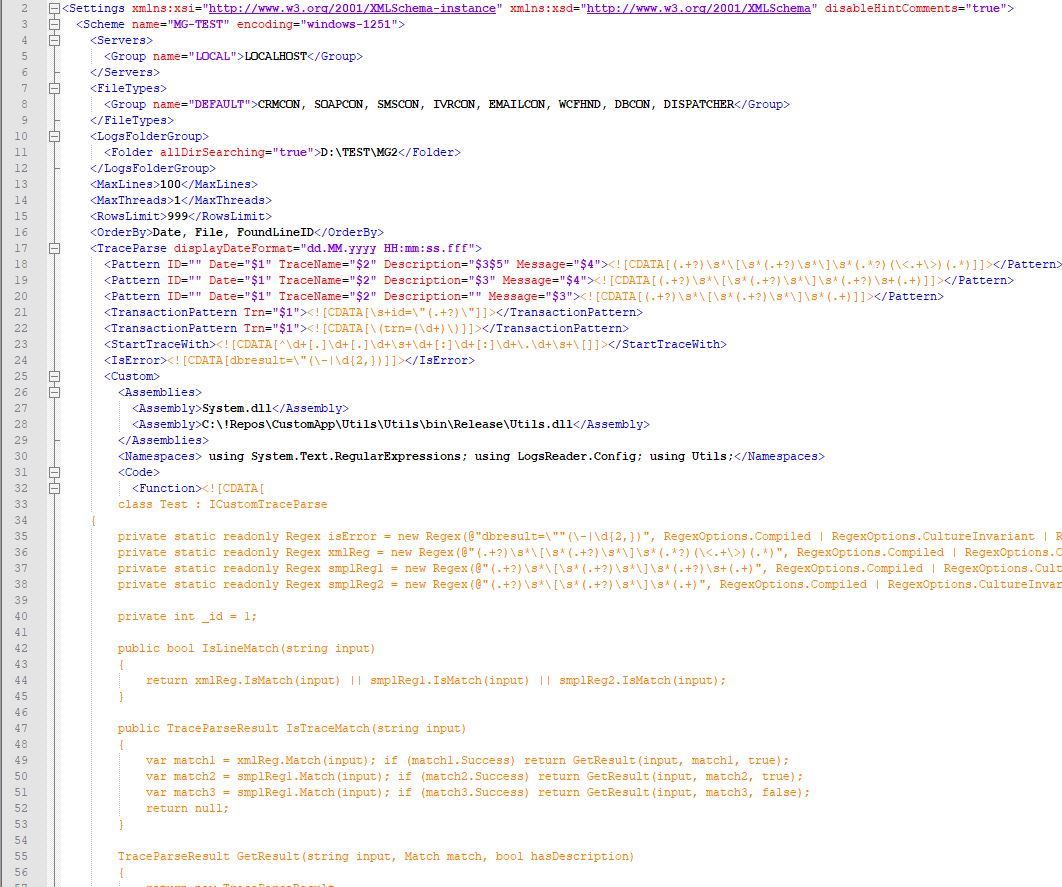
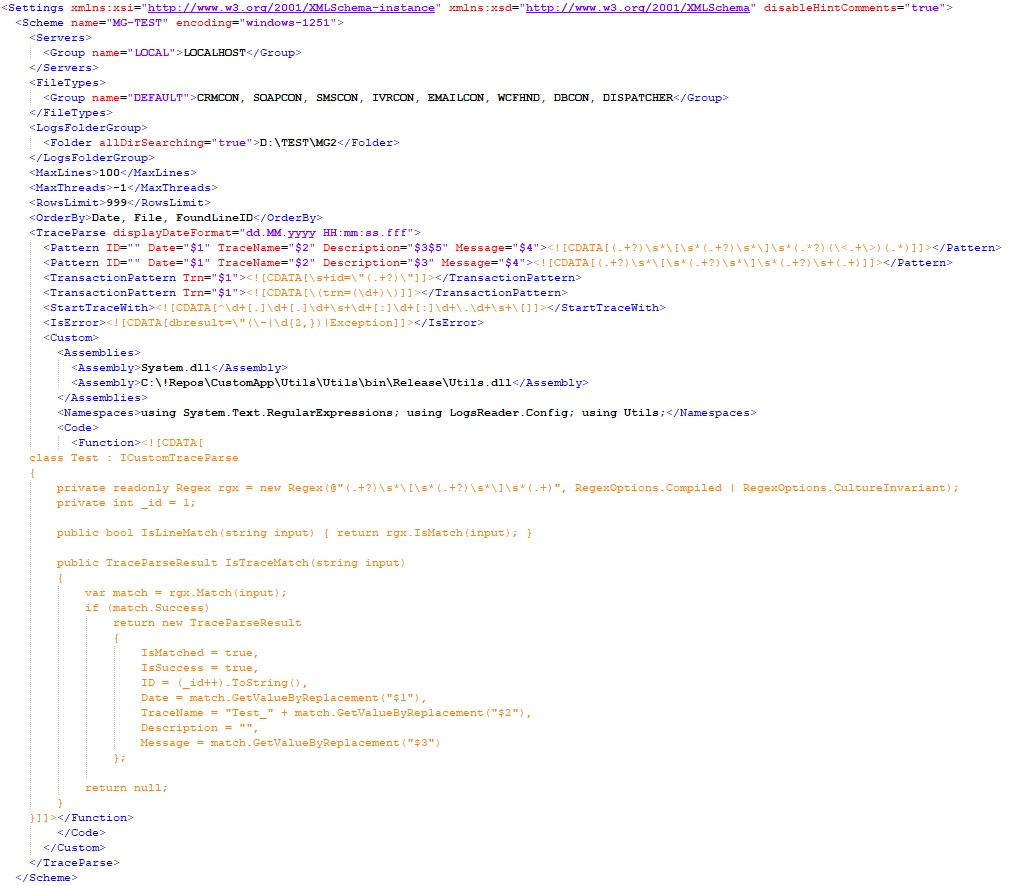
1

Changed region(s): [[0.0, 0.0, 1.0, 1.0], [0.5202, 0.7619, 0.6732, 0.7923]]

diff --git a/SPAMassageSaloon/LogsReader/Properties/Resources.Designer.cs b/SPAMassageSaloon/LogsReader/Properties/Resources.Designer.cs
@@ -1171,11 +1171,11 @@ namespace LogsReader.Properties {
         }
         
         /// <summary>
-        ///   Ищет локализованную строку, похожую на An error occurred while loading the &apos;{0}&apos; scheme in compiling custom functions in &apos;TraceParse\@Custom&apos; node..
+        ///   Ищет локализованную строку, похожую на Error loading schema &apos;{0}&apos;. Check the settings for &apos;TraceParse\@Pattern&apos; or &apos;TraceParse\@Custom&apos;..
         /// </summary>
-        public static string Txt_LRSettingsScheme_ErrCustmFuncLoad {
+        public static string Txt_LRSettingsScheme_ErrMandatory {
             get {
-                return ResourceManager.GetString("Txt_LRSettingsScheme_ErrCustmFuncLoad", resourceCulture);
+                return ResourceManager.GetString("Txt_LRSettingsScheme_ErrMandatory", resourceCulture);
             }
         }
         
@@ -1194,15 +1194,6 @@ namespace LogsReader.Properties {
         public static string Txt_LRSettingsScheme_ErrOrderBy {
             get {
                 return ResourceManager.GetString("Txt_LRSettingsScheme_ErrOrderBy", resourceCulture);
-            }
-        }
-        
-        /// <summary>
-        ///   Ищет локализованную строку, похожую на An error occurred while loading the &apos;{0}&apos; scheme. Please check Regex pattern(s) in &apos;TraceParse\@Pattern&apos; node(s)..
-        /// </summary>
-        public static string Txt_LRSettingsScheme_ErrRegex {
-            get {
-                return ResourceManager.GetString("Txt_LRSettingsScheme_ErrRegex", resourceCulture);
             }
         }
         
@@ -1280,8 +1271,7 @@ namespace LogsReader.Properties {
         
         /// <summary>
         ///   Ищет локализованную строку, похожую на Attribute &quot;displayDateFormat&quot; sets the display date format.
-        ///        &quot;Pattern&quot; nodes are required settings, that are used for reading trace parameters. Selected from top to bottom, from the most accurate to the default. You must use groupings for setting data items. Regular expression works only with options Singleline and CultureInvariant. Timeout execution - 10 seconds. Custom functions can be used in node attributes.
-        ///        &quot;TransactionPattern&quot; nodes are optional settings, that are used to search for t [остаток строки не уместился]&quot;;.
+        ///        &quot;Pattern&quot; nodes are used for parsing and reading trace parameters. It can be used together with the &quot;Custom&quot; setting, and has a higher priority. Selected from top to bottom, from the most accurate to the default. To correctly display the results, RegEx groupings must be used in the attributes. Regular expression works only with options Singleline and CultureInvariant. Timeout execution - 10 seconds. Also in the attributes you can use custo [остаток строки не уместился]&quot;;.
         /// </summary>
         public static string Txt_LRSettingsScheme_TraceParse {
             get {

diff --git a/SPAMassageSaloon/LogsReader/Reader/TraceReader.cs b/SPAMassageSaloon/LogsReader/Reader/TraceReader.cs
@@ -121,12 +121,12 @@ namespace LogsReader.Reader
 			OriginalFolder = originalFolder;
 			FileNamePartial = IO.GetPartialPath(FilePath, OriginalFolder);
 
-			if (TraceParseCustomFunction != null && TraceParsePatterns != null && TraceParsePatterns.Length > 0)
+			if (TraceParsePatterns != null && TraceParsePatterns.Length > 0 && TraceParseCustomFunction != null)
 				SearchType = TraceReaderSearchType.ByBoth;
-			else if (TraceParseCustomFunction != null)
-				SearchType = TraceReaderSearchType.ByCustomFunctions;
 			else if (TraceParsePatterns != null && TraceParsePatterns.Length > 0)
 				SearchType = TraceReaderSearchType.ByRegexPatterns;
+			else if (TraceParseCustomFunction != null)
+				SearchType = TraceReaderSearchType.ByCustomFunctions;
 
 			SearchByTransaction = TransactionPatterns != null && TransactionPatterns.Length > 0;
 		}
@@ -178,18 +178,18 @@ namespace LogsReader.Reader
 
             switch (SearchType)
             {
+	            case TraceReaderSearchType.ByRegexPatterns:
+		            if (IsTraceMatchByRegexPatterns(traceMessage, foundLineId, out result, throwException))
+			            return true;
+		            break;
 				case TraceReaderSearchType.ByCustomFunctions:
 					if (IsTraceMatchByCustomFunction(traceMessage, foundLineId, out result))
 						return true;
 					break;
-				case TraceReaderSearchType.ByRegexPatterns:
-					if (IsTraceMatchByRegexPatterns(traceMessage, foundLineId, out result, throwException))
-						return true;
-					break;
 				case TraceReaderSearchType.ByBoth:
-					if (IsTraceMatchByCustomFunction(traceMessage, foundLineId, out result))
-						return true;
 					if (IsTraceMatchByRegexPatterns(traceMessage, foundLineId, out result, throwException))
+						return true;
+					if (IsTraceMatchByCustomFunction(traceMessage, foundLineId, out result))
 						return true;
 					break;
 				default:
@@ -340,14 +340,14 @@ namespace LogsReader.Reader
 
 			switch (SearchType)
 			{
-				case TraceReaderSearchType.ByCustomFunctions:
-					return IsLineMatchByCustomFunction(traceMessage);
 				case TraceReaderSearchType.ByRegexPatterns:
 					return IsLineMatchByRegexPatterns(traceMessage);
+				case TraceReaderSearchType.ByCustomFunctions:
+					return IsLineMatchByCustomFunction(traceMessage);
 				case TraceReaderSearchType.ByBoth:
-					if (IsLineMatchByCustomFunction(traceMessage))
-						return true;
 					if (IsLineMatchByRegexPatterns(traceMessage))
+						return true;
+					if (IsLineMatchByCustomFunction(traceMessage))
 						return true;
 					break;
 				default:

diff --git a/SPAMassageSaloon/LogsReader/Config/LRSettingsScheme.cs b/SPAMassageSaloon/LogsReader/Config/LRSettingsScheme.cs
@@ -239,16 +239,11 @@ namespace LogsReader.Config
         {
             get
             {
-	            if (!TraceParse.IsCorrect)
-	            {
-		            if (!TraceParse.IsCorrectPatterns)
-			            ReportStatus?.Invoke(string.Format(Resources.Txt_LRSettingsScheme_ErrRegex, Name), ReportStatusType.Error);
-		            else if (!TraceParse.IsCorrectCustomFunction)
-			            ReportStatus?.Invoke(string.Format(Resources.Txt_LRSettingsScheme_ErrCustmFuncLoad, Name), ReportStatusType.Error);
-		            return false;
-	            }
+	            if (TraceParse.IsCorrect) 
+		            return true;
 
-	            return true;
+	            ReportStatus?.Invoke(string.Format(Resources.Txt_LRSettingsScheme_ErrMandatory, Name), ReportStatusType.Error);
+	            return false;
             }
         }
 

diff --git a/SPAMassageSaloon/LogsReader/Config/LRTraceParse.cs b/SPAMassageSaloon/LogsReader/Config/LRTraceParse.cs
@@ -83,6 +83,19 @@ namespace LogsReader.Config
 
 		[XmlAttribute("displayDateFormat")] public string DisplayDateFormat { get; set; } = "dd.MM.yyyy HH:mm:ss.fff";
 
+		[XmlElement("Pattern")]
+		public LRTraceParsePatternItem[] Patterns
+		{
+			get => _traceParsePatterns;
+			set
+			{
+				if (value == null)
+					return;
+				if (value.Length > 0)
+					_traceParsePatterns = value;
+			}
+		}
+
 		[XmlElement("Custom")]
 		public CustomFunctions Custom
 		{
@@ -100,19 +113,6 @@ namespace LogsReader.Config
 				}
 
 				IsCorrectCustomFunction = false;
-			}
-		}
-
-		[XmlElement("Pattern")]
-		public LRTraceParsePatternItem[] Patterns
-		{
-			get => _traceParsePatterns;
-			set
-			{
-				if (value == null)
-					return;
-				if (value.Length > 0)
-					_traceParsePatterns = value;
 			}
 		}
 

diff --git a/SPAMassageSaloon/LogsReader/Reader/LogsReaderFormBase.cs b/SPAMassageSaloon/LogsReader/Reader/LogsReaderFormBase.cs
@@ -356,8 +356,6 @@ namespace LogsReader.Reader
                 ChbxAlreadyUseFilter.Padding = new Padding(0, 0, Convert.ToInt32(Resources.LogsReaderForm_alreadyUseFilter_rightPadding), 0);
 
                 #endregion
-
-                ReportStatus(string.Empty, ReportStatusType.Success);
             }
             catch (Exception ex)
             {
